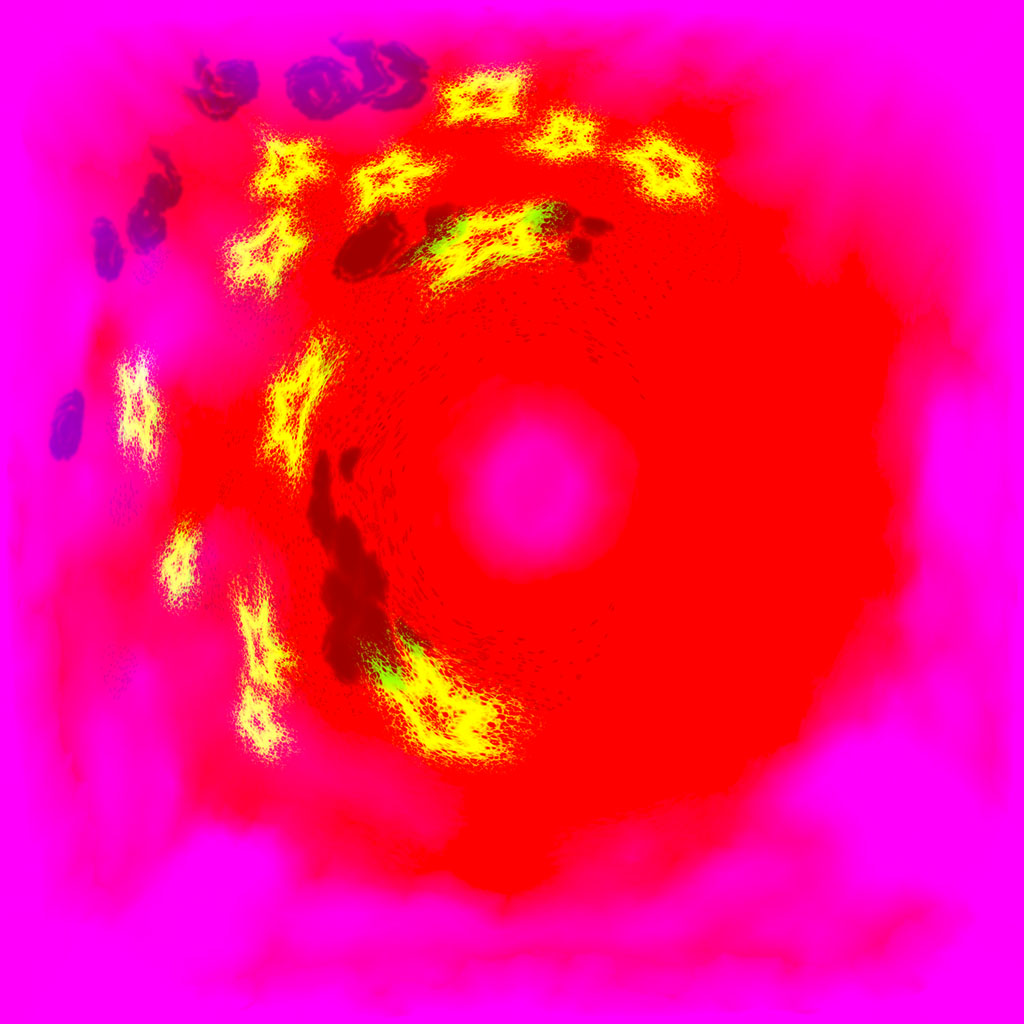
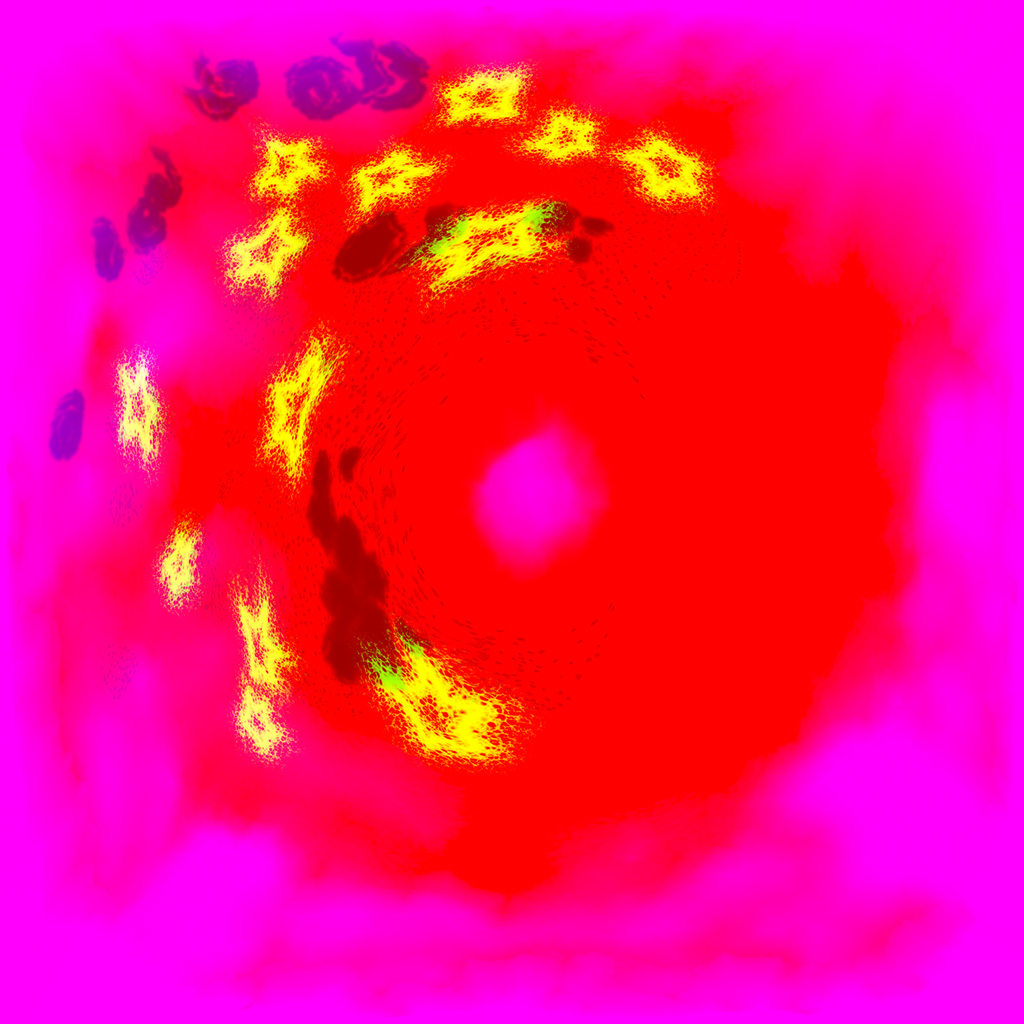
Updates

Changed region(s): [[0.4062, 0.375, 0.625, 0.5625]]

diff --git a/js/pxlNav.min.js b/js/pxlNav.min.js
@@ -5111,5 +5111,5 @@ vec4 envMapTexelToLinear(vec4 color) {
         Cd.rgb = mix(Cd.rgb*1.5, baseColor, depth);
         
         gl_FragColor=Cd;
-    }`,e}var rp={animated:ru,core:su,objects:ou,particles:au,rendering:lu,scene:cu};var PM="0.0.13";var op="pxlNav-coreCanvas";var ap,lp,uu=window.innerWidth,hu=window.innerHeight,cp=class{constructor(t,i,n,s,r){this._active=!1,this.options={loadList:["Cloud3d","SoftNoise","SmoothNoise","WarpAnimTexture"]},this.options=Object.assign(this.options,t);let o=Object.keys(this.options);Object.keys(Ys).forEach(l=>{o.includes(l)||(this.options[l]=Ys[l])}),this.verbose=this.options.verbose,this.projectTitle=i,this.startingRoom=s,r.includes(s)||r.push(s),this.roomBootList=r,this.callbacks={},this.uriHashParms=this.findHashParms(),this.mobile=this.isMobile(),this.autoCam=this.getHashParm("autoCam",!1),this.loadPercent=0,this.folderDict={assetRoot:"assets/",guiRoot:"assets/GUI/",roomRoot:"assets/rooms/",vidRoot:"assets/screenContent/"},this.validEvents={booted:"Emitted after the engine has fully booted and is ready to be addressed.",shaderEditorVis:"Returns a [bool]; Emitted when the shader editor is toggled on or off.","roomChange-Start":"Emitted when the room change transition begins.","roomChange-Middle":"Emitted when the room change process occurs mid transition.","roomChange-End":"Returns a [bool]; Emitted when the room change transition ends.",fromRoom:"Returns a custom object; Emitted from your Room code you choose to emit during run time.",pxlNavEventNameHere:"Never emitted; You did some copy'pasta.","":"** NOTE : callbacks get an event object shaped -  **","":"** { 'type' : *eventName*, 'value' : *data* } **","":"",help:"Hello! I'm here to help you!",pingPong:"Send 'ping', Get 'pong'! - pxlNav.trigger('ping');"},this.validEventsKeys=Object.keys(this.validEvents),this.loadEnvAssetFile=!0,this.pxlTimer=new co,this.pxlShaders=rp,this.pxlCookie=new lo(i,"/"),this.pxlCookie.hasCookie("forceMobile")&&(this.mobile=pxlCookie.parseCookie("forceMobile")),this.pxlQuality=new ao(this.verbose,this.mobile,this.uriHashParms),this.pxlUtils=new to(this.folderDict.assetRoot,this.mobile),this.pxlFile=new Mi(this.folderDict),this.pxlExtensions=new Ks,this.pxlAudio=new bo(this.pxlTimer),this.pxlAutoCam=new xo(this.autoCam,this.mobile),this.pxlAutoCam.active=!1,this.pxlUser=new uo,this.pxlEnv=new mo(this.options,this.startingRoom,n,this.verbose,this.mobile),this.pxlDevice=new ho(i,op,this.mobile,this.autoCam),this.pxlCamera=new vo,this.pxlAnim=new fo(this.folderDict.assetRoot,this.pxlTimer),this.pxlGuiDraws=new go(this.verbose,i,this.folderDict.assetRoot,this.folderDict.guiRoot),this.pxlQuality.setDependencies(this),this.pxlUtils.setDependencies(this),this.pxlFile.setDependencies(this),this.pxlAudio.setDependencies(this),this.pxlAutoCam.setDependencies(this),this.pxlEnv.setDependencies(this),this.pxlAnim.setDependencies(this),this.pxlDevice.setDependencies(this),this.pxlCamera.setDependencies(this),this.pxlGuiDraws.setDependencies(this),this.pxlGuiDraws.prepLoader(),this.pxlQuality.init()}set active(t=null){t==null&&(t=!this.pxlTimer.active),t==!0?(this.pxlTimer.play(),this.step(!1)):this.pxlTimer.stop()}get active(){return this.pxlTimer.active}start(){this.active=!0}stop(){this.active=!1}init(){this.pxlEnv.boot(),this.pxlQuality.startBenchmark(),this.buildGui().then(()=>{this.tickLoader(),this.bootEnvironment()}).then(()=>{this.tickLoader(),this.bootEngine()}).then(()=>{this.tickLoader(),this.pxlEnv.buildComposers(),this.cameraRunAnimatorMobile(this),this.pxlGuiDraws.stepLoader("postBoot"),this.pxlEnv.mapRender(),this.pxlDevice.setCursor("grab")}).catch(t=>{this.verbose>Hi.NONE&&(console.error("Error in pxlNavCore.init(); Load level - ",t),console.error(t))}).finally(()=>{this.verbose>Hi.ERROR&&console.log("pxlNavCore Promise Chain Completed; ",this.loadPercent),this.start()})}buildGui(){return new Promise((t,i)=>{this.pxlGuiDraws.booted(),this.pxlGuiDraws.pxlNavCanvas=document.getElementById(op),ap=window.innerWidth*this.pxlQuality.screenResPerc,this.pxlGuiDraws.pxlNavCanvas.width=window.innerWidth,lp=window.innerHeight*this.pxlQuality.screenResPerc,this.pxlGuiDraws.pxlNavCanvas.height=window.innerHeight,this.pxlDevice.canCursorLock&&(this.pxlGuiDraws.pxlNavCanvas.requestPointerLock=this.pxlGuiDraws.pxlNavCanvas.requestPointerLock||this.pxlGuiDraws.pxlNavCanvas.mozRequestPointerLock||this.pxlGuiDraws.pxlNavCanvas.webkitRequestPointerLock,document.requestPointerLock=this.pxlGuiDraws.pxlNavCanvas.exitPointerLock||this.pxlGuiDraws.pxlNavCanvas.mozExitPointerLock||this.pxlGuiDraws.pxlNavCanvas.webkitExitPointerLock),this.pxlGuiDraws.mapPrepPrompts(),t(!0)})}isMobile(){var t=!1;return t=/\b(BlackBerry|webOS|iPhone|IEMobile|Android|Windows Phone|iPad|iPod)\b/i.test(navigator.userAgent),t=this.getHashParm("m",t),t}findHashParms(){var t={},i=window.location.hash;if(i.length>1){i=i.substring(1);for(var n=i.split("&"),s=0;s<n.length;s++){var r=n[s].split("=");t[r[0]]=r[1]}}return t}getHashParm(t,i){return Object.keys(this.uriHashParms).includes(t)?this.uriHashParms[t]:i}tickLoader(){this.loadPercent+=1}bootEngine(){return new Promise((t,i)=>{let n=[];for(let s=0;s<this.roomBootList.length;++s)n.push(this.pxlEnv.loadRoom(this.roomBootList[s]));Promise.all(n).then(()=>{t(!0)})})}bootEnvironment(){return new Promise((t,i)=>{this.pxlEnv.engine=new Ws({canvas:this.pxlGuiDraws.pxlNavCanvas,alpha:!0,antialias:!1,sortObjects:!0,depth:!0});var n={format:Ye,antialias:!1,sortObjects:!0,alpha:!0,type:/(iPad|iPhone|iPod)/g.test(navigator.userAgent)?nn:Wt};this.pxlEnv.engine.autoClear=!0,this.pxlEnv.engine.debug.checkShaderErrors=!1,this.pxlEnv.engine.debug.checkShaderErrors=!0,this.verbose>=Hi.INFO&&(this.pxlEnv.engine.extensions.get("WEBGL_depth_texture")?console.log("  ** WebGL Depth Texture support enabled **"):console.log("  ** WebGL Depth Texture NOT supported **"),console.log("-- Depth Composer pass currently not used, --"),console.log("  -- A future technology for Metal Asylum --"));let s=0,r="#000000";this.pxlEnv.engine.setClearColor(this.pxlEnv.fogColor,0),this.pxlEnv.engine.setSize(ap/this.pxlQuality.screenResPerc,lp/this.pxlQuality.screenResPerc),this.pxlEnv.engine.setPixelRatio(1),this.pxlEnv.engine.outputEncoding=$r,this.pxlEnv.engine.shadowMap.enabled=!0,this.pxlEnv.engine.shadowMap.type=Mc,this.pxlEnv.scene=new rn,this.pxlEnv.scene.fog=this.pxlEnv.fog,this.pxlEnv.scene.background=new $(r),this.pxlEnv.scene.renderTarget=new Je(uu*this.pxlQuality.screenResPerc,hu*this.pxlQuality.screenResPerc,n),this.pxlEnv.scene.renderTarget.texture.format=Ye,this.pxlEnv.scene.renderTarget.texture.minFilter=Fe,this.pxlEnv.scene.renderTarget.texture.magFilter=Fe,this.pxlEnv.scene.renderTarget.texture.generateMipmaps=!1,this.pxlEnv.scene.renderTarget.depthBuffer=!0,this.pxlEnv.scene.renderTarget.depthTexture=new an,this.pxlEnv.scene.renderTarget.depthTexture.format=Xt,this.pxlEnv.scene.renderTarget.depthTexture.type=fs,this.pxlEnv.scene.renderWorldPos=new Je(uu*this.pxlQuality.screenResPerc,hu*this.pxlQuality.screenResPerc,n),this.pxlEnv.scene.renderWorldPos.texture.format=Ye,this.pxlEnv.scene.renderWorldPos.texture.minFilter=it,this.pxlEnv.scene.renderWorldPos.texture.magFilter=it,this.pxlEnv.scene.renderWorldPos.texture.generateMipmaps=!1,n.alpha=!0,this.pxlEnv.scene.renderGlowTarget=new Je(parseInt(uu*this.pxlQuality.screenResPerc),parseInt(hu*this.pxlQuality.screenResPerc),n),this.pxlEnv.scene.renderGlowTarget.texture.format=Ye,this.pxlEnv.scene.renderGlowTarget.texture.generateMipmaps=!1;var o=this.pxlGuiDraws.pxlNavCanvas.width/this.pxlGuiDraws.pxlNavCanvas.height;if(this.pxlCamera.camera=new tt(this.pxlEnv.pxlCamFOV,1,this.pxlEnv.camNear,this.pxlEnv.camFar),this.pxlAutoCam.camera=this.pxlCamera.camera,this.pxlCamera.cameraAimTarget=new ne,this.pxlEnv.scene.add(this.pxlCamera.cameraAimTarget),this.pxlCamera.camera.target=this.pxlCamera.cameraAimTarget,this.pxlCamera.camera.layers.enable(1),this.pxlCamera.camera.layers.enable(2),this.pxlEnv.scene.add(this.pxlEnv.userAvatarGroup),this.options.loadList.includes("Cloud3d")&&(this.pxlEnv.cloud3dTexture=this.pxlUtils.loadTexture(this.folderDict.assetRoot+"Noise_Cloud3d.jpg"),this.pxlEnv.cloud3dTexture.wrapS=It,this.pxlEnv.cloud3dTexture.wrapT=It),this.options.loadList.includes("SoftNoise")&&(this.pxlEnv.softNoiseTexture=this.pxlUtils.loadTexture(this.folderDict.assetRoot+"Noise_Soft3d.jpg"),this.pxlEnv.softNoiseTexture.wrapS=It,this.pxlEnv.softNoiseTexture.wrapT=It),this.options.loadList.includes("SmoothNoise")&&(this.pxlEnv.detailNoiseTexture=this.pxlUtils.loadTexture(this.folderDict.assetRoot+"Noise_UniformSmooth.jpg"),this.pxlEnv.detailNoiseTexture.wrapS=It,this.pxlEnv.detailNoiseTexture.wrapT=It),this.options.loadList.includes("ChromaticAberration")){let d=this.pxlUtils.loadTexture(this.folderDict.assetRoot+"uv_ChromaticAberration_1k.png");d.minFilter=Fe,d.magFilter=Fe,this.pxlEnv.chroAberUVTexture=d}this.options.loadList.includes("WarpAnimTexture")&&(this.pxlEnv.blockAnimTexture=this.pxlUtils.loadTexture(this.folderDict.assetRoot+"uv_blockPortalWarp.jpg"),this.pxlEnv.blockAnimTexture.minFilter=Fe,this.pxlEnv.blockAnimTexture.magFilter=Fe),this.options.loadList.includes("MathFuncs")&&(this.pxlEnv.mathFuncsTexture=this.pxlUtils.loadTexture(this.folderDict.assetRoot+"MathFuncs.jpg"),this.pxlEnv.mathFuncsTexture.minFilter=Fe,this.pxlEnv.mathFuncsTexture.magFilter=Fe);var a,l,c=(d=null)=>{var p={t:[0,0,0],r:[0,0,0],s:[1,1,1]};return d!=null&&(p[d[0]]=d[1]),p};l=c();let h="";if(this.mobile&&(h="_mobile"),this.loadEnvAssetFile){let d=this.folderDict.assetRoot+"EnvironmentAssets.fbx";this.pxlFile.loadSceneFBX(d,a,l,this.verbose,"EnvironmentAssets",[this.pxlEnv.scene])}this.pxlEnv.engine.shadowMap.enabled=!0,this.mobile?this.pxlEnv.engine.shadowMap.type=Mc:this.pxlEnv.engine.shadowMap.type=Sc;var u=new Fn(16777215,.05);this.pxlEnv.lightList.push(u),this.pxlEnv.scene.add(u);var f=new kn(16777215,.1);f.position.set(1e3,550,1200),this.pxlEnv.lightList.push(f),this.pxlEnv.scene.add(f),t(!0)})}cameraRunAnimatorMobile(t){let i=!1,n=Object.keys(t.pxlEnv.geoLoadList);for(let s=0;s<n.length&&(i=t.pxlEnv.geoLoadList[n[s]]==0,i=i&&!t.pxlEnv.roomSceneList[s]?.booted,!i);++s);i?setTimeout(()=>{t.cameraRunAnimatorMobile(t)},300):t.initRoomList(t)}initRoomList(t){t.pxlGuiDraws.stepLoader("camAnim"),t.pxlCamera.setTransform(t.pxlEnv.camInitPos,t.pxlEnv.camInitLookAt),t.pxlCamera.updateCamera(),t.pxlEnv.buildRoomEnvironments(),t.monitorRoomLoad(t)}monitorRoomLoad(t,i=0){let n=!1,s=Object.keys(t.pxlEnv.geoLoadList);for(let r=0;r<s.length&&(n=t.pxlEnv.geoLoadList[s[r]]==0,n=n&&!t.pxlEnv.roomSceneList[r]?.booted,!n);++r);n?setTimeout(()=>{t.monitorRoomLoad(t)},300):(t.pxlQuality.mapAutoQualityUpdate(1,!0),t.runPrepDrawScenes(0,!0,[]))}runPrepDrawScenes(t=0,i=!0,n=[]){if(t++,n.length>0){if(i){i=!1;let s=n[n.length-1];this.pxlCamera.warpToRoom(s)}if(this.pxlCamera.colliderPrevObjHit=null,this.pxlEnv.mapRender(!1),t%10==0){let s=n.pop();i=!0,this.pxlGuiDraws.stepLoader(s)}requestAnimationFrame(()=>{this.runPrepDrawScenes(t,i,n)})}else this.pxlGuiDraws.stepLoader("Post Room Prep"),this.pxlNavPrepSettings()}pxlNavPrepSettings(){this.pxlCamera.warpToRoom(this.pxlEnv.bootRoom,!0),this.pxlQuality.endBenchmark(),this.pxlGuiDraws.stepLoader("Nav Settings"),this.startPxlNav()}startPxlNav(){this.pxlTimer.init(),this.pxlTimer.play(),this.pxlGuiDraws.applyCookies(),this.pxlGuiDraws.pxlNavCanvas&&this.pxlGuiDraws.pxlNavCanvas.focus();let t=this.pxlEnv.roomSceneList[this.pxlEnv.currentRoom];t.active=!0,t.startTime=this.pxlTimer.msRunner.x,this.pxlEnv.roomPostGuiCalls.forEach(n=>{n.postGuiEvent()}),this.pxlEnv.roomPostGuiCalls=[],this.pxlAutoCam.enabled&&this.pxlGuiDraws.guiToggleVisibility(!1),this.pxlAutoCam.init(),this.pxlDevice.resizeRenderResolution(),this.pxlEnv.mapRender(),this.pxlQuality.setDependentSettings(),this.pxlGuiDraws.stepLoader("Starting...");let i=this;setTimeout(()=>{i.pxlEnv.postBoot(),i.pxlGuiDraws.mapPrompt&&i.pxlGuiDraws.promptFader(i.pxlGuiDraws.mapPrompt,!1,null,!0),i.pxlGuiDraws.mapPromptBG&&i.pxlGuiDraws.promptFader(i.pxlGuiDraws.mapPromptBG,!1,null,!1),i.emit("booted",!0)},200)}step(t=!1){this.pxlTimer.active&&(this.pxlTimer.step(),t&&requestAnimationFrame(()=>{this.step()}))}bootTimer(){this.pxlTimer.init(),this.pxlTimer.play()}stopTimer(){this.pxlTimer.stop()}pauseTimer(){this.pxlTimer.pause()}prepPromptFader(t,i=!1){let n=t;typeof n=="string"&&(n=document.getElementById(n),!n)||(n.classList.add("fader"),n.classList.add(i?"visOn":"visOff"),n.style.display=i?"inline-block":"none")}promptFader(t,i,n=null,s=!1){typeof t=="string"&&(t=document.getElementById(t),!t)||(t.classList.value.indexOf("fader")<0&&t.classList.add("fader"),i?(t.style.display="inline-block",setTimeout(()=>{t.classList.contains("visOff")&&(t.classList.remove("visOff"),t.classList.add("visOn"),n!=null&&(t.setAttribute("fadeOut",clockTime+n*1e3),fadeOutList.push(t)))},50)):(t.classList.remove("visOn"),t.classList.add("visOff"),s?["webkitTransitionEnd","otransitionend","oTransitionEnd","msTransitionEnd","transitionend"].forEach(o=>{t.addEventListener(o,()=>{let a=t.parentNode;a&&a.removeChild(t)})}):setTimeout(()=>{t.classList.contains("visOff")&&(t.style.display="none")},1e3)))}addRooms(t){for(let i=0;i<t.length;++i)this.pxlEnv.roomNameList.includes(t[i])||this.booted||this.roomBootList.push(t[i])}setBootRoom(t,i){console.log(t,i),this.pxlEnv.bootRoom=t,this.pxlEnv.bootLocation=i}setLoaderPhrases(t){this.pxlGuiDraws.setLoaderPhrases(t)}initExtension(t,i,n){this.pxlExtensions.init(t,i,n)}startExtension(t,i,n){this.pxlExtensions.start(t,i,n)}stopExtension(t,i,n){this.pxlExtensions.stop(t,i,n)}extensionStatus(t){return this.pxlExtensions.status(t)}trigger(t,i=null,n=null){switch(t=t.toLowerCase(),t){case"warptoroom":this.pxlCamera.warpToRoom(i,!0,n);break;case"ping":this.emit("pingPong","pong");break;case"roommessage":let s=n.type,r=n.value;i==null&&(i=this.pxlEnv.currentRoom),this.pxlEnv.sendRoomMessage(i,s,r);default:break}}subscribe(t,i){let n=!1;this.validEventsKeys.includes(t)?t=="pxlNavEventNameHere"||t=="help"||t=="test"?(console.warn("Warning : `pxlNav.subscribe( 'pxlNavEventNameHere', ... )` was used; need some help?"),console.log("Valid Event Types : "),this.validEventsKeys.forEach(s=>{console.log("  - ",s," : ",this.validEvents[s])})):this.callbacks[t]=i:console.warn("Warning : `pxlNav.subscribe( '"+t+"', ... )` was used; use 'help' for a list of valid events.")}emit(t,i,n=null){if(this.callbacks[t]){let s={type:t,value:i};n!==null&&(s.status=n),this.callbacks[t](s)}}};export{qs as ANTI_ALIASING,Ys as PXLNAV_OPTIONS,Hi as VERBOSE_LEVEL,cp as pxlNav,PM as pxlNavVersion};
+    }`,e}var rp={animated:ru,core:su,objects:ou,particles:au,rendering:lu,scene:cu};var PM="0.0.14";var op="pxlNav-coreCanvas";var ap,lp,uu=window.innerWidth,hu=window.innerHeight,cp=class{constructor(t,i,n,s,r){this._active=!1,this.options={loadList:["Cloud3d","SoftNoise","SmoothNoise","WarpAnimTexture"]},this.options=Object.assign(this.options,t);let o=Object.keys(this.options);Object.keys(Ys).forEach(l=>{o.includes(l)||(this.options[l]=Ys[l])}),this.verbose=this.options.verbose,this.projectTitle=i,this.startingRoom=s,r.includes(s)||r.push(s),this.roomBootList=r,this.callbacks={},this.uriHashParms=this.findHashParms(),this.mobile=this.isMobile(),this.autoCam=this.getHashParm("autoCam",!1),this.loadPercent=0,this.folderDict={assetRoot:"assets/",guiRoot:"assets/GUI/",roomRoot:"assets/rooms/",vidRoot:"assets/screenContent/"},this.validEvents={booted:"Emitted after the engine has fully booted and is ready to be addressed.",shaderEditorVis:"Returns a [bool]; Emitted when the shader editor is toggled on or off.","roomChange-Start":"Emitted when the room change transition begins.","roomChange-Middle":"Emitted when the room change process occurs mid transition.","roomChange-End":"Returns a [bool]; Emitted when the room change transition ends.",fromRoom:"Returns a custom object; Emitted from your Room code you choose to emit during run time.",pxlNavEventNameHere:"Never emitted; You did some copy'pasta.","":"** NOTE : callbacks get an event object shaped -  **","":"** { 'type' : *eventName*, 'value' : *data* } **","":"",help:"Hello! I'm here to help you!",pingPong:"Send 'ping', Get 'pong'! - pxlNav.trigger('ping');"},this.validEventsKeys=Object.keys(this.validEvents),this.loadEnvAssetFile=!0,this.pxlTimer=new co,this.pxlShaders=rp,this.pxlCookie=new lo(i,"/"),this.pxlCookie.hasCookie("forceMobile")&&(this.mobile=pxlCookie.parseCookie("forceMobile")),this.pxlQuality=new ao(this.verbose,this.mobile,this.uriHashParms),this.pxlUtils=new to(this.folderDict.assetRoot,this.mobile),this.pxlFile=new Mi(this.folderDict),this.pxlExtensions=new Ks,this.pxlAudio=new bo(this.pxlTimer),this.pxlAutoCam=new xo(this.autoCam,this.mobile),this.pxlAutoCam.active=!1,this.pxlUser=new uo,this.pxlEnv=new mo(this.options,this.startingRoom,n,this.verbose,this.mobile),this.pxlDevice=new ho(i,op,this.mobile,this.autoCam),this.pxlCamera=new vo,this.pxlAnim=new fo(this.folderDict.assetRoot,this.pxlTimer),this.pxlGuiDraws=new go(this.verbose,i,this.folderDict.assetRoot,this.folderDict.guiRoot),this.pxlQuality.setDependencies(this),this.pxlUtils.setDependencies(this),this.pxlFile.setDependencies(this),this.pxlAudio.setDependencies(this),this.pxlAutoCam.setDependencies(this),this.pxlEnv.setDependencies(this),this.pxlAnim.setDependencies(this),this.pxlDevice.setDependencies(this),this.pxlCamera.setDependencies(this),this.pxlGuiDraws.setDependencies(this),this.pxlGuiDraws.prepLoader(),this.pxlQuality.init()}set active(t=null){t==null&&(t=!this.pxlTimer.active),t==!0?(this.pxlTimer.play(),this.step(!1)):this.pxlTimer.stop()}get active(){return this.pxlTimer.active}start(){this.active=!0}stop(){this.active=!1}init(){this.pxlEnv.boot(),this.pxlQuality.startBenchmark(),this.buildGui().then(()=>{this.tickLoader(),this.bootEnvironment()}).then(()=>{this.tickLoader(),this.bootEngine()}).then(()=>{this.tickLoader(),this.pxlEnv.buildComposers(),this.cameraRunAnimatorMobile(this),this.pxlGuiDraws.stepLoader("postBoot"),this.pxlEnv.mapRender(),this.pxlDevice.setCursor("grab")}).catch(t=>{this.verbose>Hi.NONE&&(console.error("Error in pxlNavCore.init(); Load level - ",t),console.error(t))}).finally(()=>{this.verbose>Hi.ERROR&&console.log("pxlNavCore Promise Chain Completed; ",this.loadPercent),this.start()})}buildGui(){return new Promise((t,i)=>{this.pxlGuiDraws.booted(),this.pxlGuiDraws.pxlNavCanvas=document.getElementById(op),ap=window.innerWidth*this.pxlQuality.screenResPerc,this.pxlGuiDraws.pxlNavCanvas.width=window.innerWidth,lp=window.innerHeight*this.pxlQuality.screenResPerc,this.pxlGuiDraws.pxlNavCanvas.height=window.innerHeight,this.pxlDevice.canCursorLock&&(this.pxlGuiDraws.pxlNavCanvas.requestPointerLock=this.pxlGuiDraws.pxlNavCanvas.requestPointerLock||this.pxlGuiDraws.pxlNavCanvas.mozRequestPointerLock||this.pxlGuiDraws.pxlNavCanvas.webkitRequestPointerLock,document.requestPointerLock=this.pxlGuiDraws.pxlNavCanvas.exitPointerLock||this.pxlGuiDraws.pxlNavCanvas.mozExitPointerLock||this.pxlGuiDraws.pxlNavCanvas.webkitExitPointerLock),this.pxlGuiDraws.mapPrepPrompts(),t(!0)})}isMobile(){var t=!1;return t=/\b(BlackBerry|webOS|iPhone|IEMobile|Android|Windows Phone|iPad|iPod)\b/i.test(navigator.userAgent),t=this.getHashParm("m",t),t}findHashParms(){var t={},i=window.location.hash;if(i.length>1){i=i.substring(1);for(var n=i.split("&"),s=0;s<n.length;s++){var r=n[s].split("=");t[r[0]]=r[1]}}return t}getHashParm(t,i){return Object.keys(this.uriHashParms).includes(t)?this.uriHashParms[t]:i}tickLoader(){this.loadPercent+=1}bootEngine(){return new Promise((t,i)=>{let n=[];for(let s=0;s<this.roomBootList.length;++s)n.push(this.pxlEnv.loadRoom(this.roomBootList[s]));Promise.all(n).then(()=>{t(!0)})})}bootEnvironment(){return new Promise((t,i)=>{this.pxlEnv.engine=new Ws({canvas:this.pxlGuiDraws.pxlNavCanvas,alpha:!0,antialias:!1,sortObjects:!0,depth:!0});var n={format:Ye,antialias:!1,sortObjects:!0,alpha:!0,type:/(iPad|iPhone|iPod)/g.test(navigator.userAgent)?nn:Wt};this.pxlEnv.engine.autoClear=!0,this.pxlEnv.engine.debug.checkShaderErrors=!1,this.pxlEnv.engine.debug.checkShaderErrors=!0,this.verbose>=Hi.INFO&&(this.pxlEnv.engine.extensions.get("WEBGL_depth_texture")?console.log("  ** WebGL Depth Texture support enabled **"):console.log("  ** WebGL Depth Texture NOT supported **"),console.log("-- Depth Composer pass currently not used, --"),console.log("  -- A future technology for Metal Asylum --"));let s=0,r="#000000";this.pxlEnv.engine.setClearColor(this.pxlEnv.fogColor,0),this.pxlEnv.engine.setSize(ap/this.pxlQuality.screenResPerc,lp/this.pxlQuality.screenResPerc),this.pxlEnv.engine.setPixelRatio(1),this.pxlEnv.engine.outputEncoding=$r,this.pxlEnv.engine.shadowMap.enabled=!0,this.pxlEnv.engine.shadowMap.type=Mc,this.pxlEnv.scene=new rn,this.pxlEnv.scene.fog=this.pxlEnv.fog,this.pxlEnv.scene.background=new $(r),this.pxlEnv.scene.renderTarget=new Je(uu*this.pxlQuality.screenResPerc,hu*this.pxlQuality.screenResPerc,n),this.pxlEnv.scene.renderTarget.texture.format=Ye,this.pxlEnv.scene.renderTarget.texture.minFilter=Fe,this.pxlEnv.scene.renderTarget.texture.magFilter=Fe,this.pxlEnv.scene.renderTarget.texture.generateMipmaps=!1,this.pxlEnv.scene.renderTarget.depthBuffer=!0,this.pxlEnv.scene.renderTarget.depthTexture=new an,this.pxlEnv.scene.renderTarget.depthTexture.format=Xt,this.pxlEnv.scene.renderTarget.depthTexture.type=fs,this.pxlEnv.scene.renderWorldPos=new Je(uu*this.pxlQuality.screenResPerc,hu*this.pxlQuality.screenResPerc,n),this.pxlEnv.scene.renderWorldPos.texture.format=Ye,this.pxlEnv.scene.renderWorldPos.texture.minFilter=it,this.pxlEnv.scene.renderWorldPos.texture.magFilter=it,this.pxlEnv.scene.renderWorldPos.texture.generateMipmaps=!1,n.alpha=!0,this.pxlEnv.scene.renderGlowTarget=new Je(parseInt(uu*this.pxlQuality.screenResPerc),parseInt(hu*this.pxlQuality.screenResPerc),n),this.pxlEnv.scene.renderGlowTarget.texture.format=Ye,this.pxlEnv.scene.renderGlowTarget.texture.generateMipmaps=!1;var o=this.pxlGuiDraws.pxlNavCanvas.width/this.pxlGuiDraws.pxlNavCanvas.height;if(this.pxlCamera.camera=new tt(this.pxlEnv.pxlCamFOV,1,this.pxlEnv.camNear,this.pxlEnv.camFar),this.pxlAutoCam.camera=this.pxlCamera.camera,this.pxlCamera.cameraAimTarget=new ne,this.pxlEnv.scene.add(this.pxlCamera.cameraAimTarget),this.pxlCamera.camera.target=this.pxlCamera.cameraAimTarget,this.pxlCamera.camera.layers.enable(1),this.pxlCamera.camera.layers.enable(2),this.pxlEnv.scene.add(this.pxlEnv.userAvatarGroup),this.options.loadList.includes("Cloud3d")&&(this.pxlEnv.cloud3dTexture=this.pxlUtils.loadTexture(this.folderDict.assetRoot+"Noise_Cloud3d.jpg"),this.pxlEnv.cloud3dTexture.wrapS=It,this.pxlEnv.cloud3dTexture.wrapT=It),this.options.loadList.includes("SoftNoise")&&(this.pxlEnv.softNoiseTexture=this.pxlUtils.loadTexture(this.folderDict.assetRoot+"Noise_Soft3d.jpg"),this.pxlEnv.softNoiseTexture.wrapS=It,this.pxlEnv.softNoiseTexture.wrapT=It),this.options.loadList.includes("SmoothNoise")&&(this.pxlEnv.detailNoiseTexture=this.pxlUtils.loadTexture(this.folderDict.assetRoot+"Noise_UniformSmooth.jpg"),this.pxlEnv.detailNoiseTexture.wrapS=It,this.pxlEnv.detailNoiseTexture.wrapT=It),this.options.loadList.includes("ChromaticAberration")){let d=this.pxlUtils.loadTexture(this.folderDict.assetRoot+"uv_ChromaticAberration_1k.png");d.minFilter=Fe,d.magFilter=Fe,this.pxlEnv.chroAberUVTexture=d}this.options.loadList.includes("WarpAnimTexture")&&(this.pxlEnv.blockAnimTexture=this.pxlUtils.loadTexture(this.folderDict.assetRoot+"uv_blockPortalWarp.jpg"),this.pxlEnv.blockAnimTexture.minFilter=Fe,this.pxlEnv.blockAnimTexture.magFilter=Fe),this.options.loadList.includes("MathFuncs")&&(this.pxlEnv.mathFuncsTexture=this.pxlUtils.loadTexture(this.folderDict.assetRoot+"MathFuncs.jpg"),this.pxlEnv.mathFuncsTexture.minFilter=Fe,this.pxlEnv.mathFuncsTexture.magFilter=Fe);var a,l,c=(d=null)=>{var p={t:[0,0,0],r:[0,0,0],s:[1,1,1]};return d!=null&&(p[d[0]]=d[1]),p};l=c();let h="";if(this.mobile&&(h="_mobile"),this.loadEnvAssetFile){let d=this.folderDict.assetRoot+"EnvironmentAssets.fbx";this.pxlFile.loadSceneFBX(d,a,l,this.verbose,"EnvironmentAssets",[this.pxlEnv.scene])}this.pxlEnv.engine.shadowMap.enabled=!0,this.mobile?this.pxlEnv.engine.shadowMap.type=Mc:this.pxlEnv.engine.shadowMap.type=Sc;var u=new Fn(16777215,.05);this.pxlEnv.lightList.push(u),this.pxlEnv.scene.add(u);var f=new kn(16777215,.1);f.position.set(1e3,550,1200),this.pxlEnv.lightList.push(f),this.pxlEnv.scene.add(f),t(!0)})}cameraRunAnimatorMobile(t){let i=!1,n=Object.keys(t.pxlEnv.geoLoadList);for(let s=0;s<n.length&&(i=t.pxlEnv.geoLoadList[n[s]]==0,i=i&&!t.pxlEnv.roomSceneList[s]?.booted,!i);++s);i?setTimeout(()=>{t.cameraRunAnimatorMobile(t)},300):t.initRoomList(t)}initRoomList(t){t.pxlGuiDraws.stepLoader("camAnim"),t.pxlCamera.setTransform(t.pxlEnv.camInitPos,t.pxlEnv.camInitLookAt),t.pxlCamera.updateCamera(),t.pxlEnv.buildRoomEnvironments(),t.monitorRoomLoad(t)}monitorRoomLoad(t,i=0){let n=!1,s=Object.keys(t.pxlEnv.geoLoadList);for(let r=0;r<s.length&&(n=t.pxlEnv.geoLoadList[s[r]]==0,n=n&&!t.pxlEnv.roomSceneList[r]?.booted,!n);++r);n?setTimeout(()=>{t.monitorRoomLoad(t)},300):(t.pxlQuality.mapAutoQualityUpdate(1,!0),t.runPrepDrawScenes(0,!0,[]))}runPrepDrawScenes(t=0,i=!0,n=[]){if(t++,n.length>0){if(i){i=!1;let s=n[n.length-1];this.pxlCamera.warpToRoom(s)}if(this.pxlCamera.colliderPrevObjHit=null,this.pxlEnv.mapRender(!1),t%10==0){let s=n.pop();i=!0,this.pxlGuiDraws.stepLoader(s)}requestAnimationFrame(()=>{this.runPrepDrawScenes(t,i,n)})}else this.pxlGuiDraws.stepLoader("Post Room Prep"),this.pxlNavPrepSettings()}pxlNavPrepSettings(){this.pxlCamera.warpToRoom(this.pxlEnv.bootRoom,!0),this.pxlQuality.endBenchmark(),this.pxlGuiDraws.stepLoader("Nav Settings"),this.startPxlNav()}startPxlNav(){this.pxlTimer.init(),this.pxlTimer.play(),this.pxlGuiDraws.applyCookies(),this.pxlGuiDraws.pxlNavCanvas&&this.pxlGuiDraws.pxlNavCanvas.focus();let t=this.pxlEnv.roomSceneList[this.pxlEnv.currentRoom];t.active=!0,t.startTime=this.pxlTimer.msRunner.x,this.pxlEnv.roomPostGuiCalls.forEach(n=>{n.postGuiEvent()}),this.pxlEnv.roomPostGuiCalls=[],this.pxlAutoCam.enabled&&this.pxlGuiDraws.guiToggleVisibility(!1),this.pxlAutoCam.init(),this.pxlDevice.resizeRenderResolution(),this.pxlEnv.mapRender(),this.pxlQuality.setDependentSettings(),this.pxlGuiDraws.stepLoader("Starting...");let i=this;setTimeout(()=>{i.pxlEnv.postBoot(),i.pxlGuiDraws.mapPrompt&&i.pxlGuiDraws.promptFader(i.pxlGuiDraws.mapPrompt,!1,null,!0),i.pxlGuiDraws.mapPromptBG&&i.pxlGuiDraws.promptFader(i.pxlGuiDraws.mapPromptBG,!1,null,!1),i.emit("booted",!0)},200)}step(t=!1){this.pxlTimer.active&&(this.pxlTimer.step(),t&&requestAnimationFrame(()=>{this.step()}))}bootTimer(){this.pxlTimer.init(),this.pxlTimer.play()}stopTimer(){this.pxlTimer.stop()}pauseTimer(){this.pxlTimer.pause()}prepPromptFader(t,i=!1){let n=t;typeof n=="string"&&(n=document.getElementById(n),!n)||(n.classList.add("fader"),n.classList.add(i?"visOn":"visOff"),n.style.display=i?"inline-block":"none")}promptFader(t,i,n=null,s=!1){typeof t=="string"&&(t=document.getElementById(t),!t)||(t.classList.value.indexOf("fader")<0&&t.classList.add("fader"),i?(t.style.display="inline-block",setTimeout(()=>{t.classList.contains("visOff")&&(t.classList.remove("visOff"),t.classList.add("visOn"),n!=null&&(t.setAttribute("fadeOut",clockTime+n*1e3),fadeOutList.push(t)))},50)):(t.classList.remove("visOn"),t.classList.add("visOff"),s?["webkitTransitionEnd","otransitionend","oTransitionEnd","msTransitionEnd","transitionend"].forEach(o=>{t.addEventListener(o,()=>{let a=t.parentNode;a&&a.removeChild(t)})}):setTimeout(()=>{t.classList.contains("visOff")&&(t.style.display="none")},1e3)))}addRooms(t){for(let i=0;i<t.length;++i)this.pxlEnv.roomNameList.includes(t[i])||this.booted||this.roomBootList.push(t[i])}setBootRoom(t,i){console.log(t,i),this.pxlEnv.bootRoom=t,this.pxlEnv.bootLocation=i}setLoaderPhrases(t){this.pxlGuiDraws.setLoaderPhrases(t)}initExtension(t,i,n){this.pxlExtensions.init(t,i,n)}startExtension(t,i,n){this.pxlExtensions.start(t,i,n)}stopExtension(t,i,n){this.pxlExtensions.stop(t,i,n)}extensionStatus(t){return this.pxlExtensions.status(t)}trigger(t,i=null,n=null){switch(t=t.toLowerCase(),t){case"warptoroom":this.pxlCamera.warpToRoom(i,!0,n);break;case"ping":this.emit("pingPong","pong");break;case"roommessage":let s=n.type,r=n.value;i==null&&(i=this.pxlEnv.currentRoom),this.pxlEnv.sendRoomMessage(i,s,r);default:break}}subscribe(t,i){let n=!1;this.validEventsKeys.includes(t)?t=="pxlNavEventNameHere"||t=="help"||t=="test"?(console.warn("Warning : `pxlNav.subscribe( 'pxlNavEventNameHere', ... )` was used; need some help?"),console.log("Valid Event Types : "),this.validEventsKeys.forEach(s=>{console.log("  - ",s," : ",this.validEvents[s])})):this.callbacks[t]=i:console.warn("Warning : `pxlNav.subscribe( '"+t+"', ... )` was used; use 'help' for a list of valid events.")}emit(t,i,n=null){if(this.callbacks[t]){let s={type:t,value:i};n!==null&&(s.status=n),this.callbacks[t](s)}}};export{qs as ANTI_ALIASING,Ys as PXLNAV_OPTIONS,Hi as VERBOSE_LEVEL,cp as pxlNav,PM as pxlNavVersion};
 /** @license zlib.js 2012 - imaya [ https://github.com/imaya/zlib.js ] The MIT License */

diff --git a/pxlRooms/CampfireEnvironment/CampfireEnvironment.js b/pxlRooms/CampfireEnvironment/CampfireEnvironment.js
@@ -3254,12 +3254,7 @@ vec4 envMapTexelToLinear(vec4 color) {
     varying float vFarMask;
     varying float vPitMask;
     
-    #define PI 3.1415926535897932384626
     
-    /***********************************/
-    /** Start of THREE Shader Includs **/
-    /***********************************/
-
     struct DirLight {
       vec3 color;
       vec3 direction;
@@ -3267,10 +3262,6 @@ vec4 envMapTexelToLinear(vec4 color) {
 
     uniform DirLight directionalLights[NUM_DIR_LIGHTS];
     
-    /*********************************/
-    /** End of THREE Shader Includs **/
-    /*********************************/
-
         
     // Campfire ground glow colors
     const vec3 firePitColor = vec3( .80, .50, .30);
@@ -3396,6 +3387,12 @@ vec4 envMapTexelToLinear(vec4 color) {
         // Add rocky hill sides, reduce region around campfire, remove pit itself
         Cd.rgb = mix( Cd.rgb, rockyHillCd, vRockyMask*(1.0-vPitMask)*campfireMaskInv);
         
+        // Darken the center pit
+        //   Gotta add that ash!
+        float ashMask = max(0.0, dataCd.b*vPitMask-.53);
+        ashMask = 1.0 - min( 1.0, ashMask*ashMask*3.5)*.95;
+        Cd.rgb = mix(  Cd.rrr*.4 + Cd.rgb*(.5+dirtNoise*.5), Cd.rgb, ashMask );
+        
         // -- -- --
 
         // -- -- -- -- -- -- -- --
@@ -3410,6 +3407,7 @@ vec4 envMapTexelToLinear(vec4 color) {
         }
         // Add a fake bump map to the lighting
         lights = lights*baseDirtNoise;
+        //
         Cd.rgb += Cd.rgb*lights;
         
         // -- -- --
@@ -3421,10 +3419,10 @@ vec4 envMapTexelToLinear(vec4 color) {
         float animWarpFit = max( animWarpCd.r, max(animWarpCd.g,animWarpCd.b) )*.8 -.2;
         
         // Main Pit
-        Cd.rgb += (firePitColor + firePitColor*animWarpFit) * (campfireMask*1.1-.1) * .25;
+        Cd.rgb += (firePitColor + firePitColor*animWarpFit) * (campfireMask*1.1-.1) * .25 * ashMask;
         
         // Region around Pit and Druid Rabbit
-        Cd.rgb += (fireGlowColor + fireGlowColor*animWarpFit) * vPitMask * vPitMask * .15;
+        Cd.rgb += (fireGlowColor + fireGlowColor*animWarpFit) * vPitMask * vPitMask * .15 * ashMask;
         
         // -- -- --
 
@@ -3437,6 +3435,7 @@ vec4 envMapTexelToLinear(vec4 color) {
         shade +=  length( lights ) ;
         shade *= dataCd.r;
         Cd.rgb=  mix( Cd.rgb*shade, fogColor, depth );
+        
         
         gl_FragColor=Cd;
     }`,e}function bh(){return`
@@ -3499,7 +3498,6 @@ vec4 envMapTexelToLinear(vec4 color) {
     
     varying float vFlicker;
     
-    #define PI 3.14159265358979
     
     void main(){
         float timer = time.x*0.05;

diff --git a/style/gitPage_reposStyle.css b/style/gitPage_reposStyle.css
@@ -5,7 +5,7 @@
   text-shadow: 2px 2px 3px rgba(0, 0, 0, .75);
   pointer-events: auto;
   max-height: 65vh;
-  max-width: calc(max(min(100vw - max(6vh, 6vw), 500px), min(100vw - max(6vh, 6vw), 40vw + ((1000px - 100vw)* 5))));
+  max-width: calc(max(min(100vw - max(7vh, 7vw), 500px), min(100vw - max(7vh, 7vw), 40vw + ((1000px - 100vw)* 5))));
   position: fixed;
   right: max(max(2vh,2vw), 50vw - 750px);
   bottom: max(4vh,4vw);

diff --git a/style/gitPage_mainStyle.css b/style/gitPage_mainStyle.css
@@ -140,17 +140,16 @@ text-shadow: 1px 1.5px 4px #252525;
 /*  -- -- --  */
 
 .gitPageContentParentStyle {
-  max-height: 0vh;
   overflow: hidden;
   position: fixed;
-  left: 0px;
-  width: 100vw;
+  width: 85vw;
   max-width: 1600px;
   height: 100vh;
   pointer-events: none;
   display: grid;
   justify-items: center;
 }
+
 
 .gpcpVisibleStyle {
   max-height: 100vh;

diff --git a/style/gitPage_pxlNavStyle.css b/style/gitPage_pxlNavStyle.css
@@ -12,6 +12,7 @@
   z-index: 2;
 }
 
+
 .gitPxlNavPageStyle::-webkit-scrollbar {
 	width: 10px;
 }
